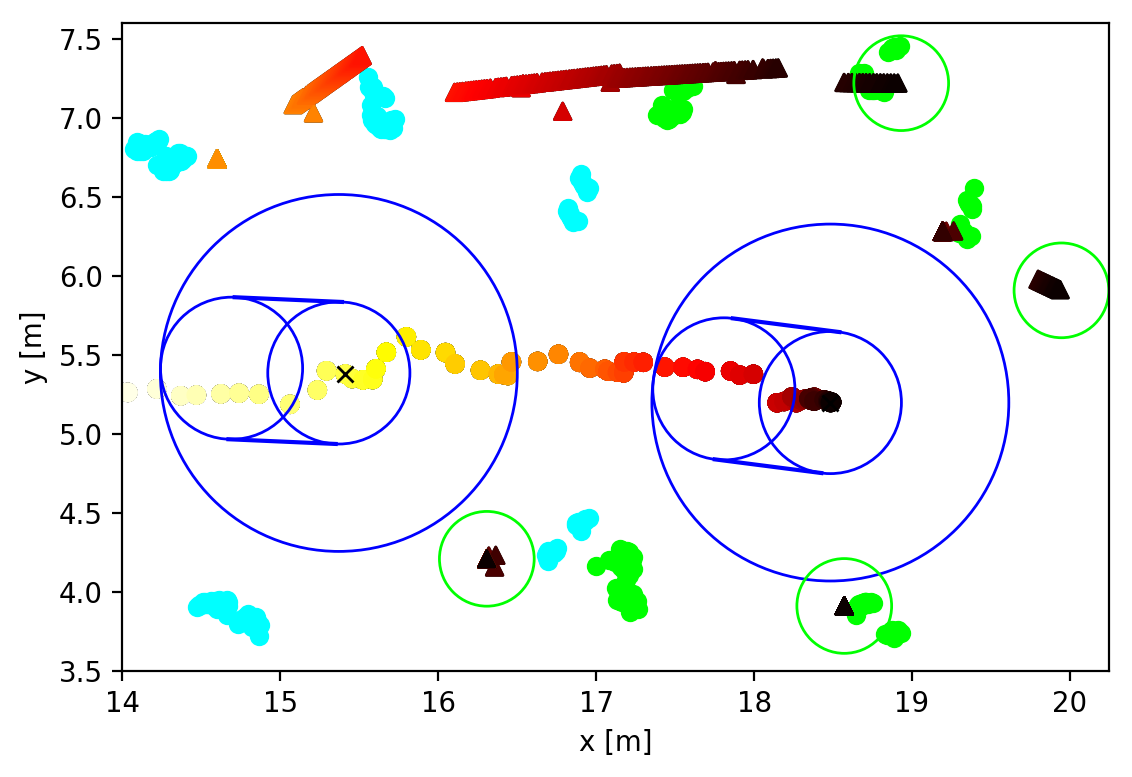
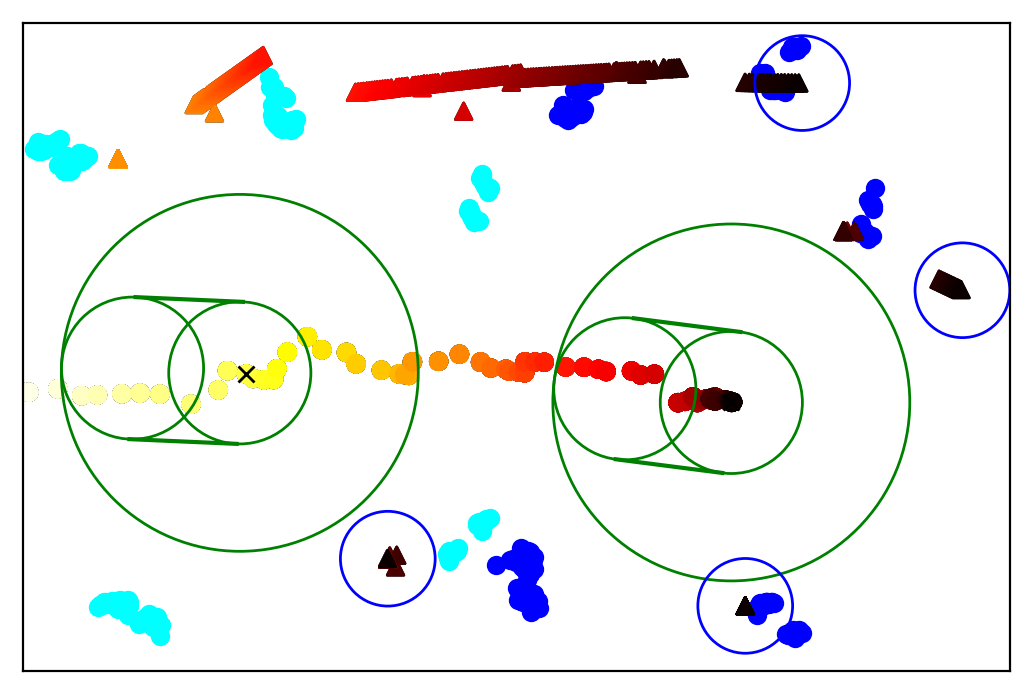
change colors and small things in test plots

diff --git a/fave/all_plots.py b/fave/all_plots.py
@@ -4,9 +4,9 @@ from scipy import interpolate
 import matplotlib.pyplot as plt
 import matplotlib.cm as cm
 
-import capsule_distance
+import capsule_distance_new
 
-capsule = capsule_distance.Capsule(0.18, -0.5, 0.45)
+capsule = capsule_distance_new.Capsule(0.18, -0.5, 0.45)
 y_reference_point = 0.18
 tau = 1.5
 
@@ -39,7 +39,8 @@ def rotate_t_multi_vector_stack(stack_mat, angle):
 	stack_mat[:, 1:] = np.matmul(stack_mat[:, 1:], np.transpose(rot_diag))
 	stack_mat[nan_ind] = np.nan
 
-def plot_and_export(name, t_start, t_snapshot_1, t_snapshot_2, show_big_circle, x_lim, y_lim, remove_ground, rotation_angle, horizontal_t_scale):
+def plot_and_export(name, t_start, t_snapshot_1, t_snapshot_2, show_big_circle,
+	x_lim, y_lim, remove_ground, rotation_angle, horizontal_t_scale, shift_meter_scale):
 
 	folder_path = "./" + name + "/"
 	picture_export_prefix = "./pictures/a_" + name + "_"
@@ -114,7 +115,7 @@ def plot_and_export(name, t_start, t_snapshot_1, t_snapshot_2, show_big_circle, 
 			i_start = i
 
 	i_snapshots = [i_d_min_1, i_d_min_2]
-	t_snapshot_colors = [[0.0,1.0, 1.0], [0.0,1.0, 0.0]]
+	t_snapshot_colors = [[0.0,1.0, 1.0], [0.0,0.0, 1.0]]
 	plot_lrf = True
 	#lrf_sampler = np.arange(0, t.shape[0]/5, 20)
 	#lrf_points_sampled = lrf[lrf_sampler, :]
@@ -147,8 +148,8 @@ def plot_and_export(name, t_start, t_snapshot_1, t_snapshot_2, show_big_circle, 
 	plt.plot(xy_p_ref[i_d_min_1, 0], xy_p_ref[i_d_min_1, 1], 'kx')
 	plt.plot(xy_p_ref[i_d_min_2, 0], xy_p_ref[i_d_min_2, 1], 'kx')
 	ax = plt.gca()
-	capsule.plot_at_pose(x_of_t(t_d_min_1), y_of_t(t_d_min_1), phi_of_t(t_d_min_1), ax, orca=show_big_circle)
-	capsule.plot_at_pose(x_of_t(t_d_min_2), y_of_t(t_d_min_2), phi_of_t(t_d_min_2), ax, orca=show_big_circle)
+	capsule.plot_at_pose(x_of_t(t_d_min_1), y_of_t(t_d_min_1), phi_of_t(t_d_min_1), ax, orca=show_big_circle, color="g")
+	capsule.plot_at_pose(x_of_t(t_d_min_2), y_of_t(t_d_min_2), phi_of_t(t_d_min_2), ax, orca=show_big_circle, color="g")
 
 	for j in range(tracks.shape[1]/4):
 		if np.isnan(tracks[i_d_min_1, j*4]):
@@ -163,10 +164,19 @@ def plot_and_export(name, t_start, t_snapshot_1, t_snapshot_2, show_big_circle, 
 #v_sampler = v_sampler = np.arange(0, t.shape[0], 10)#[i_d_min_1, i_d_min_2]
 #plt.quiver(xy_p_ref[v_sampler, 0], xy_p_ref[v_sampler, 1], v_cartesian_nominal_p_ref[v_sampler, 0], v_cartesian_nominal_p_ref[v_sampler, 1], color=(0,0,1,0.5), scale=1.0, angles='xy', scale_units='xy', width=0.005)
 #plt.quiver(xy_p_ref[v_sampler, 0], xy_p_ref[v_sampler, 1], v_cartesian_corrected_p_ref[v_sampler, 0], v_cartesian_corrected_p_ref[v_sampler, 1], color=(0,1,0,0.5), scale=1.0, angles='xy', scale_units='xy', width=0.005)
+	if False: #show scale
+		shift_x = -2.0 + x_of_t(t_d_min_1) + shift_meter_scale[0]
+		shift_y = -2.0 + y_of_t(t_d_min_1) + shift_meter_scale[1]
+		ax.text(2.9+shift_x, 2.6+shift_y, "1 m")
+		ax.plot([2.75+shift_x,3.75+shift_x], [2.5+shift_y, 2.5+shift_y],'k', linewidth=1)
+		ax.plot([2.75+shift_x,2.75+shift_x], [2.45+shift_y, 2.55+shift_y],'k', linewidth=1)
+		ax.plot([3.75+shift_x,3.75+shift_x], [2.45+shift_y, 2.55+shift_y],'k', linewidth=1)
 
 	ax.set_aspect('equal')
-	ax.set_ylabel('y [m]')
-	ax.set_xlabel('x [m]')
+	ax.xaxis.set_ticks([])
+	ax.xaxis.set_ticklabels([])
+	ax.yaxis.set_ticks([])
+	ax.yaxis.set_ticklabels([])
 	#ax.set_title('Trajectories')
 	if not x_lim == None:
 		ax.set_xlim(x_lim)
@@ -220,16 +230,16 @@ def plot_and_export(name, t_start, t_snapshot_1, t_snapshot_2, show_big_circle, 
 
 
 tests_args = [
-	["jul_16_door_rds_3", 0.0, 0.0, 8.5, False, [-1.5, 4.5], [-2, 2], False, 0.0, False]
-	,["jul_16_door_orca_2", 0.0, 0.0, 8.5, True, [-1.5, 2.5], [-2, 2], False, 0.0, False]
-	,["jul_17_row_overtaking_rds_o1", 0.0, 2.0, 12.5, False, [0, 9.5], [-2, 3], True, 0.0, True]
-	,["jul_17_row_overtaking_orca", 0.0, 2.0, 9, True, [5, 11], [-4, 1], True, 0.0, False]
+	["jul_16_door_rds_3", 0.0, 0.0, 8.5, False, [-1.5, 4.5], [-2, 2], False, 0.0, True, np.array([-1.0, -1.5])]
+	,["jul_16_door_orca_2", 0.0, 0.0, 8.5, True, [-1.5, 2.5], [-2, 2], False, 0.0, True, np.array([-1.5, -1.75])]
+	,["jul_17_row_overtaking_rds_o1", 0.0, 2.0, 12.5, False, [0, 9.5], [-2, 3], True, 0.0, True, np.array([-1.0, -1.5])]
+	,["jul_17_row_overtaking_orca", 0.0, 2.0, 9, True, [5, 11], [-4, 1], True, 0.0, False, np.array([-1.0, -2.0])]
 	,
 	["jul_17_crowd_overtaking_rds", 4.0, 6.0, 11, False, [11.8, 18], [5.75,10]# [11.5,19], [-8.2,-1]
-	, True, np.pi/4.0, False]
+	, True, np.pi/4.0, False, np.array([-1.0, -1.5])]
 	,["jul_17_crowd_overtaking_orca", 6.0, 8.0, 17.7, True, [14,20.25], [3.5, 7.6]# [13.7, 19.7], [-8.5, -2.5]
-	, True, np.pi/4.0-0.15, False]
+	, True, np.pi/4.0-0.15, False, np.array([-1.0, -2.0])]
 ]
 
 for args in tests_args:
-	plot_and_export(args[0], args[1], args[2], args[3], args[4], args[5], args[6], args[7], args[8], args[9])
+	plot_and_export(args[0], args[1], args[2], args[3], args[4], args[5], args[6], args[7], args[8], args[9], args[10])
